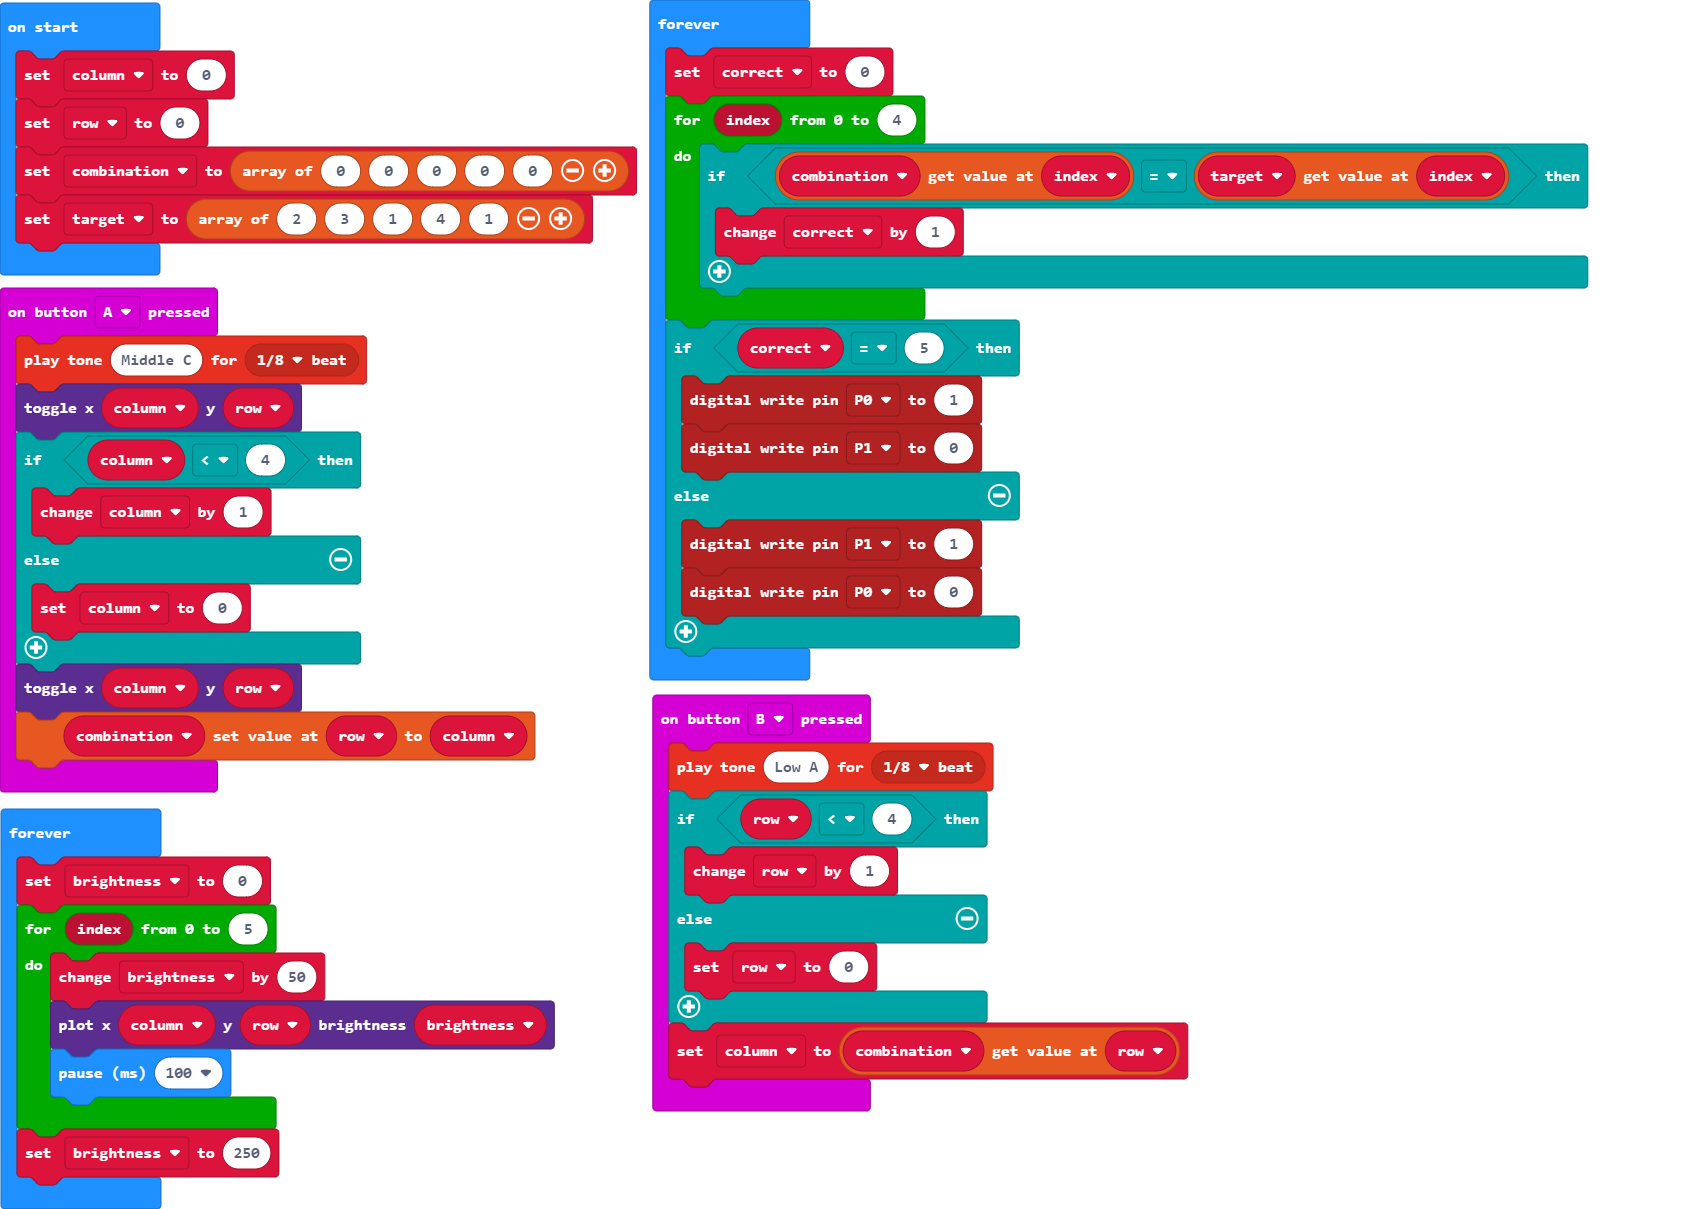
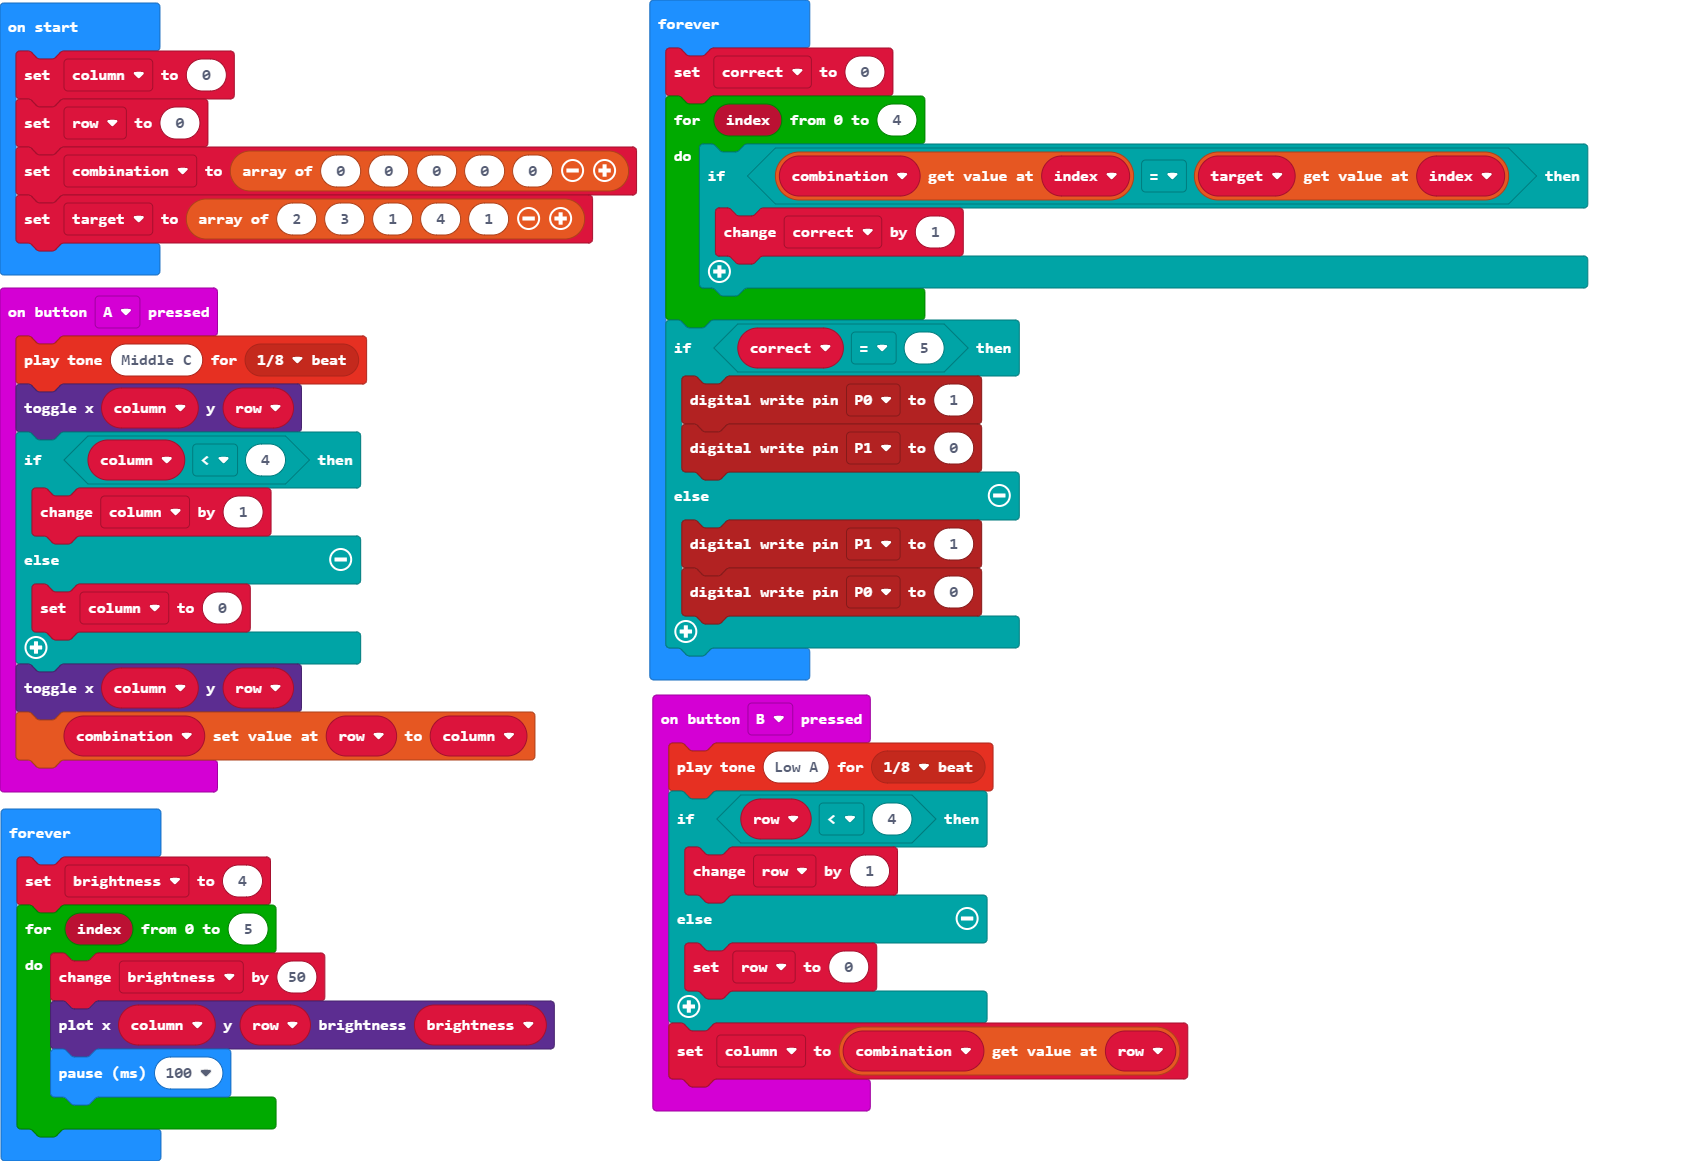
Update main.blocks, main.ts

Changed region(s): [[0.3688, 0.0, 0.9527, 0.9612], [0.0, 0.031, 0.3688, 0.9922]]

diff --git a/main.ts b/main.ts
@@ -43,11 +43,10 @@ basic.forever(function () {
     }
 })
 basic.forever(function () {
-    brightness = 0
+    brightness = 4
     for (let index = 0; index <= 5; index++) {
         brightness += 50
         led.plotBrightness(column, row, brightness)
         basic.pause(100)
     }
-    brightness = 250
 })
